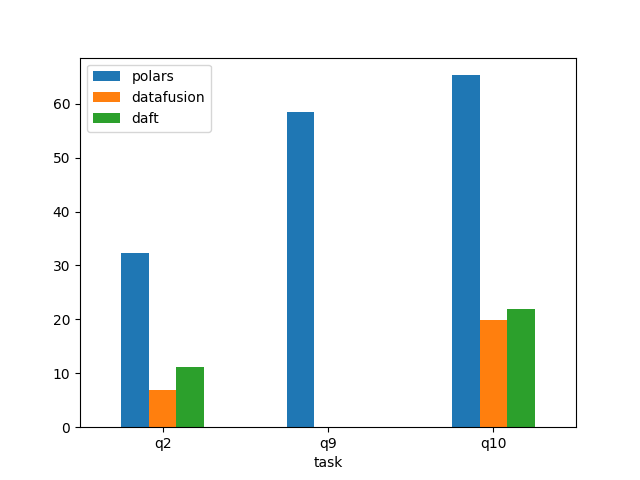
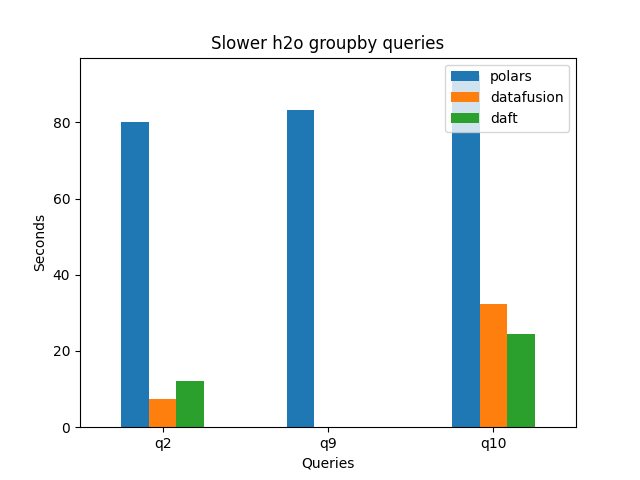
add labels to graphs

diff --git a/benchmarks/run_all.py b/benchmarks/run_all.py
@@ -35,6 +35,9 @@ res = polars_res.join(datafusion_res, on="task").join(daft_res, on="task")
 print(res)
 
 ax = res.plot.bar(rot=0)
+ax.set_title('Fast h2o groupby queries')
+ax.set_ylabel('Seconds')
+ax.set_xlabel('Queries')
 ax.figure.savefig("images/groupby-fast.png")
 
 # Slow group by queries
@@ -62,4 +65,7 @@ res = polars_res.join(datafusion_res, on="task").join(daft_res, on="task")
 print(res)
 
 ax = res.plot.bar(rot=0)
+ax.set_title('Slower h2o groupby queries')
+ax.set_ylabel('Seconds')
+ax.set_xlabel('Queries')
 ax.figure.savefig("images/groupby-slow.png")
